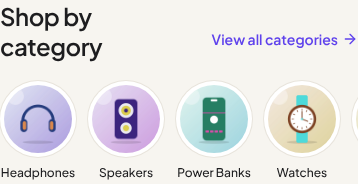
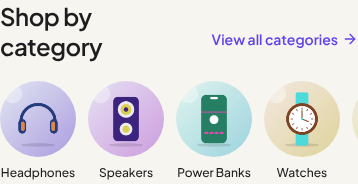
Shop by category: circles without the white ring (M118)
Owner review 2026-11-12: captured with and without the ring at 390 and
820; without reads cleaner and shows more of each photo. Hover keeps a
violet ring. Type-check, lint and build pass; no overflow, no errors.

Claude-Session: https://claude.ai/code/session_01Bwj5YD9LQvYaUEf2Nrq9iE

diff --git a/components/CategoryShowcase.tsx b/components/CategoryShowcase.tsx
@@ -16,7 +16,8 @@ import ScrollRail from '@/components/ui/ScrollRail'
 // identity (ADR-052): Plus Jakarta Sans only (no serif), violet for actions, warm wells and hairlines,
 // no shadows on cards. Every category in the admin's order (ADR-048), links in the server HTML (M40,
 // e2e/seo.spec.ts). Rows are swiped on touch and scrolled with ScrollRail's buttons from `md`.
-// A category without an image shows its icon.
+// A category without an image shows its icon. The circles have no white ring (owner review 2026-11-12:
+// compared with and without; without reads cleaner and shows more of the photo); hover adds a violet ring.
 const imageOf = (category: Category) => (category.image && typeof category.image === 'object' ? (category.image.url ?? null) : null)
 
 // The row bleeds to the screen edge below `lg` so the next circle peeks in; from `lg` it sits in its column.
@@ -59,7 +60,7 @@ function CategoryCircle({ category }: { category: Category }) {
   const image = imageOf(category)
   return (
     <Link href={`/category/${category.slug}`} className="group flex flex-col items-center gap-2 rounded-tile text-center">
-      <span className="block w-full rounded-full bg-surface p-1 ring-1 ring-line transition group-hover:ring-2 group-hover:ring-primary">
+      <span className="block w-full rounded-full transition group-hover:ring-2 group-hover:ring-primary group-hover:ring-offset-2 group-hover:ring-offset-page">
         <span className="flex aspect-square items-center justify-center overflow-hidden rounded-full bg-surface-muted text-ink-3">
           {image ? (
             <Image src={image} alt="" width={200} height={200} sizes="(min-width: 640px) 96px, 76px" className="size-full object-cover" />

diff --git a/docs/redesign/phase2/README.md b/docs/redesign/phase2/README.md
@@ -17,6 +17,8 @@ Both reference styles were built in Mirza's identity and captured at 390, 820 an
 
 **Final (owner, 2026-11-12): both styles, by screen size.** Circles below `lg` (phones and tablets, under 1024px), the image cards with the intro column from `lg` (desktop). Both lists are in the server HTML; the hidden one is `display: none`, so keyboard and screen-reader users meet each category once. Captures: `category-styles/final-{mobile-390,tablet-820,desktop-1440}.png` (no overflow, no errors). The full-page `after/` set predates this split, so its phone and tablet home pages still show the cards.
 
+**Circle ring (owner review, 2026-11-12):** the circles were captured with and without their white ring and hairline (`category-styles/ring-*.png` against `final-*.png`). **Chosen: no ring.** It reads cleaner and more editorial, shows about 10% more of each photo at the same size, and removes ten extra outlines from the row. Hover still adds a violet ring. Watch point: a category photo on a near-white backdrop has a softer edge against the ivory page; if the final photos need it, a faint hairline is a one-line change.
+
 Also: the footer lists **all** categories (it showed the first six, leaving four unreachable from it).
 
 ## Deviation from the Phase 0 report
